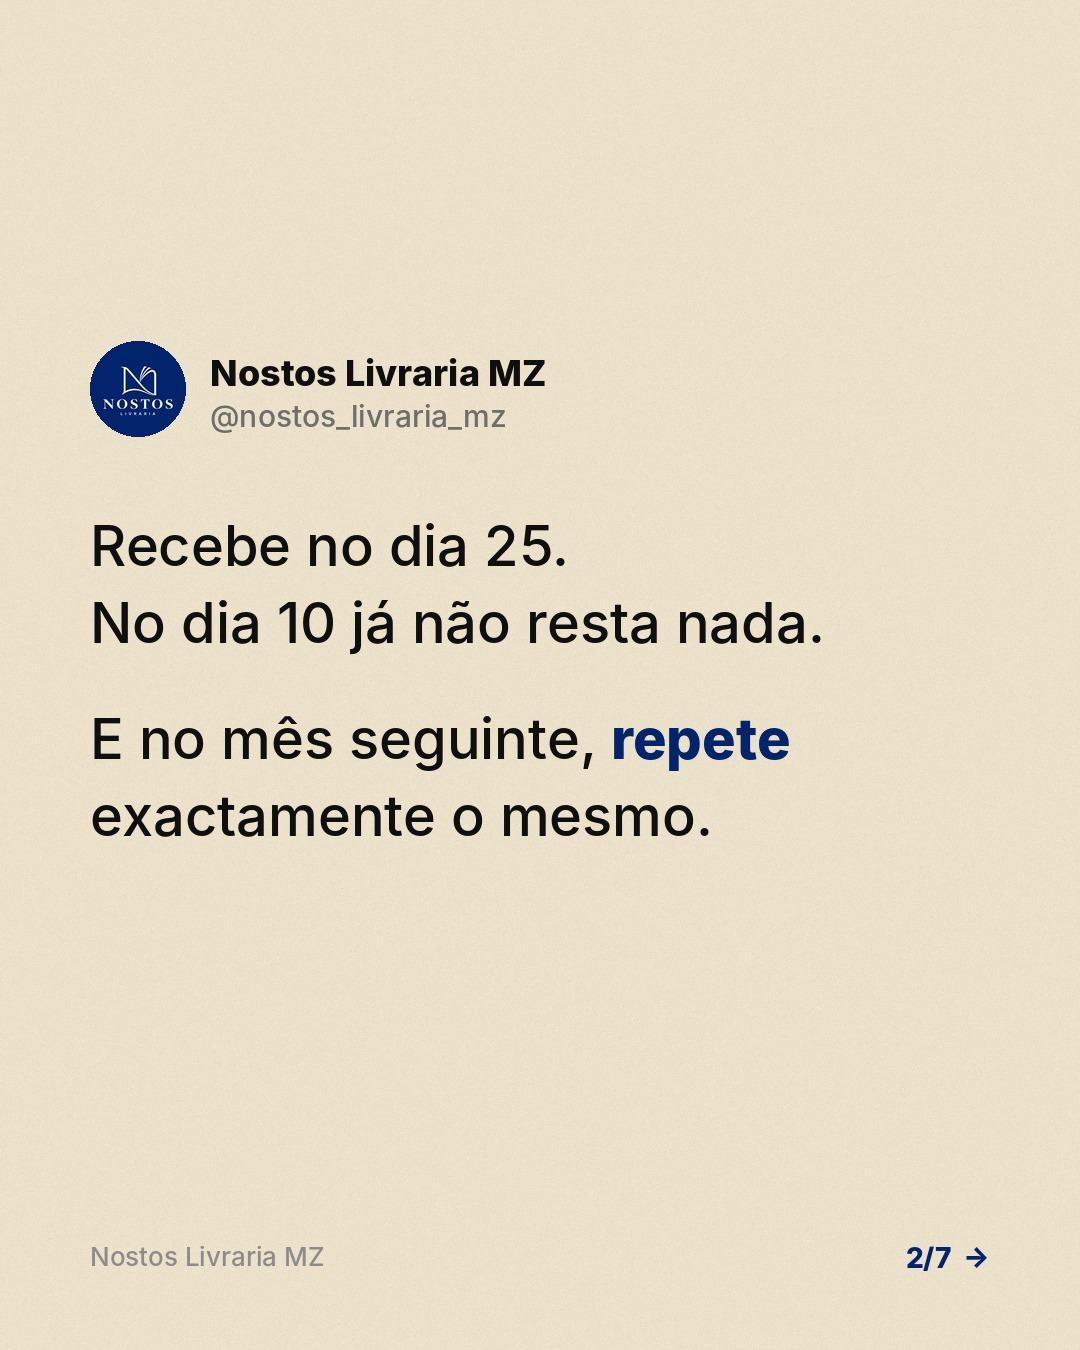
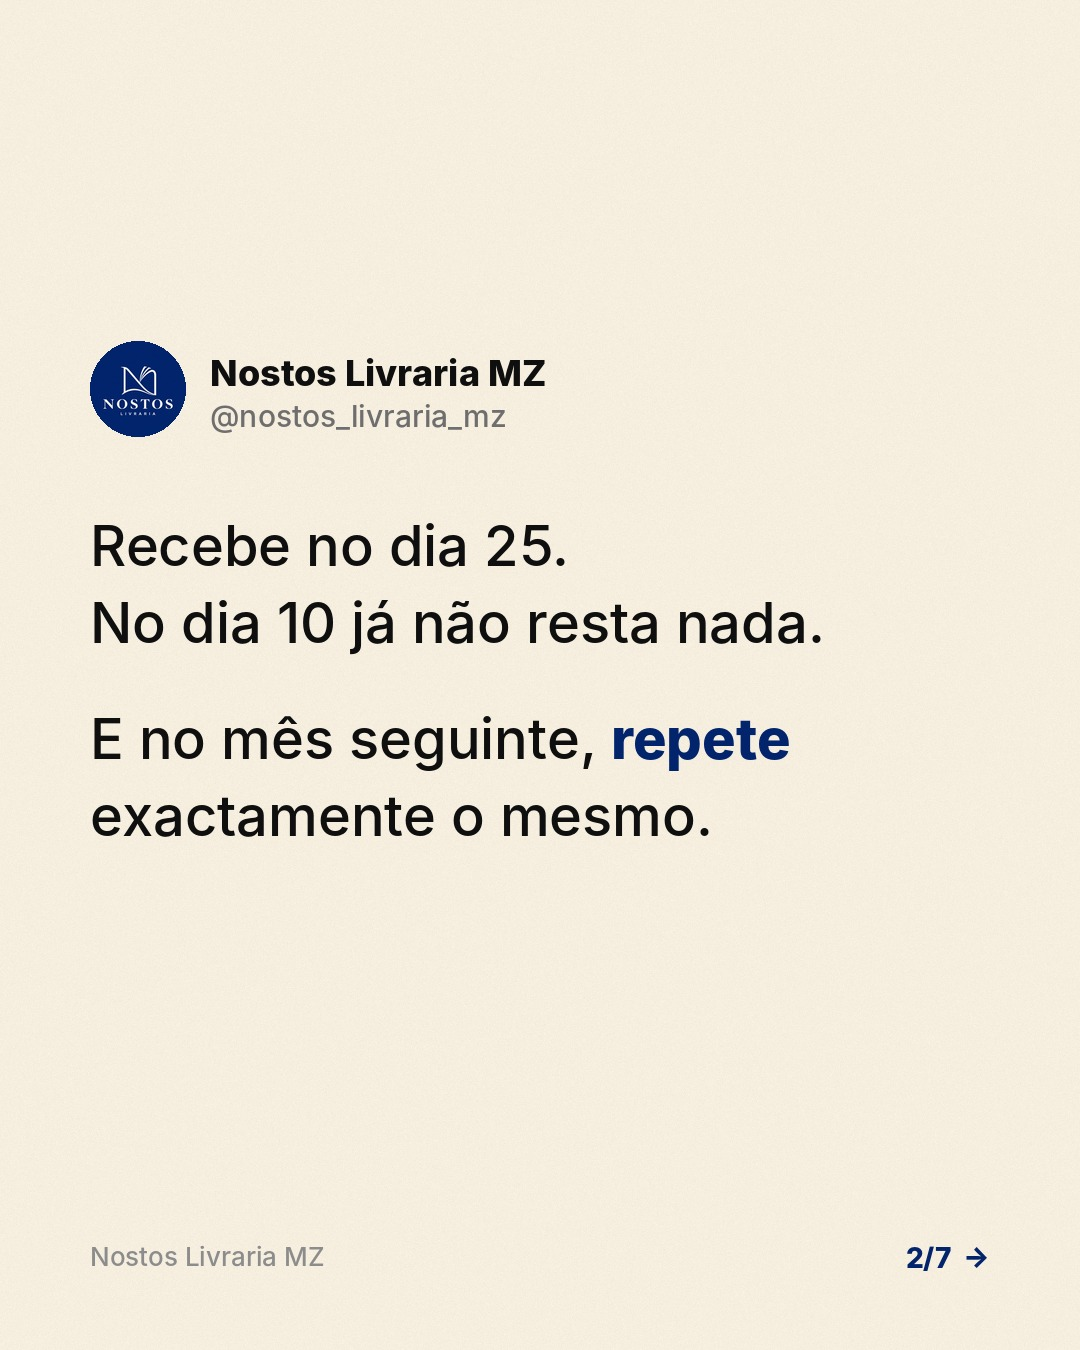
Creme claro de papel de livro; amostra volta a Os Segredos da Mente Milionária
Claude-Session: https://claude.ai/code/session_01158HqZBK5N8s9ruNUS9Jgj

diff --git a/engine/render.py b/engine/render.py
@@ -28,7 +28,7 @@ INK = (34, 29, 24)
 RED = (2, 36, 108)  # azul Nostos (cor do logo); nome mantido por compatibilidade
 NAVY = RED
 LOGO_CREME = (251, 248, 240)
-BEIGE = (236, 225, 202)  # creme quente de papel de livro (#ECE1CA), fundo padrão do estilo nota
+BEIGE = (246, 239, 224)  # creme claro de papel de livro (#F6EFE0), fundo padrão do estilo nota
 GREY = (110, 104, 96)
 SIZES = {"feed": (1080, 1350), "story": (1080, 1920)}
 WA = "WhatsApp 87 943 1217"
@@ -448,7 +448,7 @@ def nota_draw(W, H, p, n, total):
     # centrar o bloco (cabeçalho + texto) na vertical
     content_h = int(y)
     rng = np.random.default_rng(7)
-    grain = np.array(bg, float)[None, None, :] + rng.normal(0, 2.2, (H, W, 1))
+    grain = np.array(bg, float)[None, None, :] + rng.normal(0, 1.6, (H, W, 1))
     img = Image.fromarray(np.clip(grain, 0, 255).astype(np.uint8))
     area = H - (260 if story else 150)
     top = max(90, int((area - content_h) / 2))

diff --git a/CLAUDE.md b/CLAUDE.md
@@ -51,7 +51,7 @@ Ler primeiro `data/brand.md`, `data/catalogo.md`, `data/insights.md` e as últim
 - **Penúltima/última**: livro do catálogo dos anúncios (quando fizer sentido) + CTA (guardar, enviar a alguém,
   comentar, WhatsApp).
 - Estilos, alternar:
-  - `nota` (fundo creme #ECE1CA (papel de livro) – nunca branco puro –, a Nostos a escrever, tipo publicação)
+  - `nota` (fundo creme #F6EFE0 (creme claro de papel de livro) – nunca branco puro –, a Nostos a escrever, tipo publicação)
     – **o principal (~50%)**. Texto limpo e elegante, sem sombras.
     Usar `highlight` para 1–3 palavras-chave em azul Nostos e `book` para mostrar um livro do catálogo.
   - `design` (creme, frases fortes) – ~25%.
